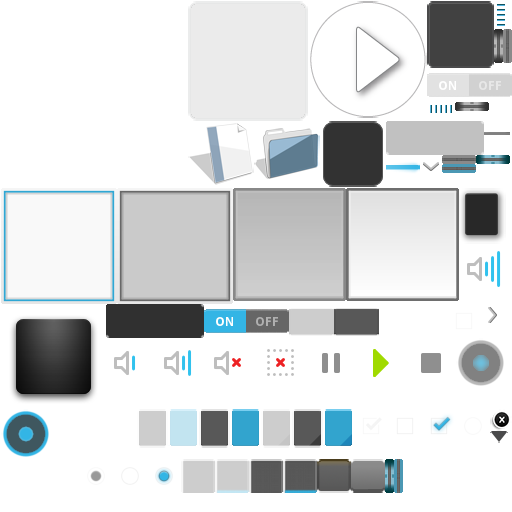
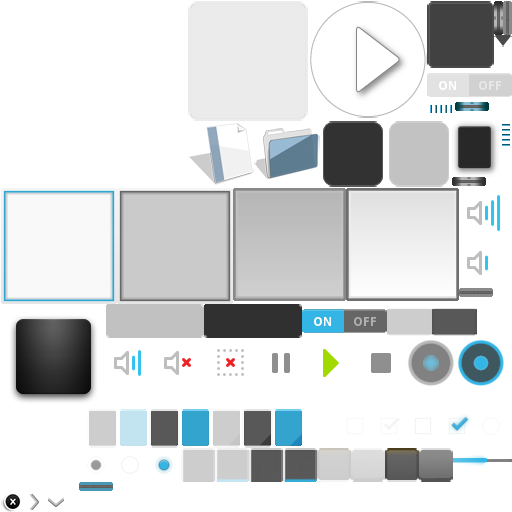
uix:Widgets make sure all compound widgets work with disabled

diff --git a/kivy/uix/vkeyboard.py b/kivy/uix/vkeyboard.py
@@ -226,6 +226,16 @@ class VKeyboard(Scatter):
     :file:`atlas://data/images/defaulttheme/vkeyboard_background`.
     '''
 
+    background_disabled = StringProperty(
+        'atlas://data/images/defaulttheme/vkeyboard_disabled_background')
+    '''Filename of the background image when disbaled.
+
+    .. versionadded:: 1.8.0
+
+    :data:`background_disabled` a :class:`~kivy.properties.StringProperty`, default to
+    :file:`atlas://data/images/defaulttheme/vkeyboard__disabled_background`.
+    '''
+
     key_background_color = ListProperty([1, 1, 1, 1])
     '''Key background color, in the format (r, g, b, a). If a key background is
     set, the color will be combined with the key background texture.
@@ -241,6 +251,17 @@ class VKeyboard(Scatter):
 
     :data:`key_background_normal` a :class:`~kivy.properties.StringProperty`,
     default to :file:`atlas://data/images/defaulttheme/vkeyboard_key_normal`.
+    '''
+
+    key_disabled_background_normal = StringProperty(
+            'atlas://data/images/defaulttheme/vkeyboard_key_normal')
+    '''Filename of the key background image for use when no touches are active
+    on the widget and disbaled.
+
+    ..versionadded:: 1.8.0
+
+    :data:`key_disabled_background_normal` a :class:`~kivy.properties.StringProperty`,
+    default to :file:`atlas://data/images/defaulttheme/vkeyboard_disaled_key_normal`.
     '''
 
     key_background_down = StringProperty(
@@ -327,6 +348,9 @@ class VKeyboard(Scatter):
 
         # prepare layout widget
         self.refresh_keys_hint()
+        self.refresh_keys()
+
+    def on_disabled(self, intance, value):
         self.refresh_keys()
 
     def _update_layout_mode(self, *l):
@@ -559,7 +583,9 @@ class VKeyboard(Scatter):
         # draw background
         w, h = self.size
 
-        background = resource_find(self.background)
+        background = resource_find(self.background_disabled
+                                   if self.disabled else
+                                   self.background)
         texture = Image(background, mipmap=True).texture
         self.background_key_layer.clear()
         with self.background_key_layer:
@@ -571,7 +597,9 @@ class VKeyboard(Scatter):
         # XXX reloading the texture each time
 
         # first draw keys without the font
-        key_normal = resource_find(self.key_background_normal)
+        key_normal = resource_find(self.key_background_disabled_normal
+                                   if self.disabled else
+                                   self.key_background_normal)
         texture = Image(key_normal, mipmap=True).texture
         with self.background_key_layer:
             for line_nb in xrange(1, layout_rows + 1):
@@ -719,6 +747,8 @@ class VKeyboard(Scatter):
         x, y = touch.pos
         if not self.collide_point(x, y):
             return
+        if self.disabled:
+            return True
 
         x, y = self.to_local(x, y)
         if not self.collide_margin(x, y):

diff --git a/kivy/uix/tabbedpanel.py b/kivy/uix/tabbedpanel.py
@@ -359,8 +359,7 @@ class TabbedPanel(GridLayout):
     content = ObjectProperty(None)
     '''This is the object holding(current_tab's content is added to this)
     the content of the current tab. To Listen to the changes in the content
-    of the current tab you should bind to `current_tab` and then access it's
-    `content` property.
+    of the current tab you should bind to current_tabs `content` property.
 
     :data:`content` is a :class:`~kivy.properties.ObjectProperty`,
     default to 'None'.
@@ -410,7 +409,7 @@ class TabbedPanel(GridLayout):
     '''
 
     def __init__(self, **kwargs):
-        # these variables need to be initialised before the kv lang is
+        # these variables need to be initialized before the kv lang is
         # processed setup the base layout for the tabbed panel
         self._tab_layout = GridLayout(rows=1)
         self.rows = 1
@@ -474,6 +473,7 @@ class TabbedPanel(GridLayout):
             self.on_tab_width()
         else:
             widget.pos_hint = {'x': 0, 'top': 1}
+            content.disabled = self.current_tab.disabled
             content.add_widget(widget, index)
 
     def remove_widget(self, widget):
@@ -506,10 +506,6 @@ class TabbedPanel(GridLayout):
         else:
             content.clear_widgets()
 
-    def on_touch_down(self, touch):
-        if self.collide_point(*touch.pos) and self.disabled:
-            return True
-        return super(TabbedPanel, self).on_touch_down(touch)
 
     def on_do_default_tab(self, instance, value):
         if not value:

diff --git a/kivy/uix/widget.py b/kivy/uix/widget.py
@@ -217,6 +217,8 @@ class Widget(EventDispatcher):
         :Returns:
             bool. If True, the dispatching of the touch will stop.
         '''
+        if self.disabled and self.collide_point(*touch.pos):
+            return True
         for child in self.children[:]:
             if child.dispatch('on_touch_down', touch):
                 return True
@@ -226,6 +228,8 @@ class Widget(EventDispatcher):
 
         See :meth:`on_touch_down` for more information
         '''
+        if self.disabled:
+            return
         for child in self.children[:]:
             if child.dispatch('on_touch_move', touch):
                 return True
@@ -235,6 +239,8 @@ class Widget(EventDispatcher):
 
         See :meth:`on_touch_down` for more information
         '''
+        if self.disabled:
+            return
         for child in self.children[:]:
             if child.dispatch('on_touch_up', touch):
                 return True

diff --git a/kivy/uix/button.py b/kivy/uix/button.py
@@ -50,15 +50,6 @@ class Button(Label):
             pressed the button goes away).
     '''
 
-    disabled_color = ListProperty([1, 1, 1, .3])
-    '''Text color, in the format (r, g, b, a)
-
-    .. versionadded:: 1.7.0
-
-    :data:`disabled_color` is a :class:`~kivy.properties.ListProperty`, default to [1, 1,
-    1, .5].
-    '''
-
     state = OptionProperty('normal', options=('normal', 'down'))
     '''State of the button, must be one of 'normal' or 'down'.
     The state is 'down' only when the button is currently touched/clicked,
@@ -147,8 +138,6 @@ class Button(Label):
             return False
         if not self.collide_point(touch.x, touch.y):
             return False
-        if self.disabled:
-            return True
         if self in touch.ud:
             return False
         touch.grab(self)

diff --git a/kivy/uix/popup.py b/kivy/uix/popup.py
@@ -165,6 +165,11 @@ class Popup(ModalView):
         self._container.clear_widgets()
         self._container.add_widget(self.content)
 
+    def on_touch_down(self, touch):
+        if self.disabled and self.collide_point(*touch.pos):
+            return True
+        return super(Popup, self).on_touch_down(touch)
+
 
 if __name__ == '__main__':
     from kivy.base import runTouchApp
@@ -180,7 +185,7 @@ if __name__ == '__main__':
     content.add_widget(content_cancel)
     popup = Popup(title='Test popup',
                   size_hint=(None, None), size=(256, 256),
-                  content=content)
+                  content=content, disabled=True)
     content_cancel.bind(on_release=popup.dismiss)
 
     layout = GridLayout(cols=3)

diff --git a/kivy/uix/accordion.py b/kivy/uix/accordion.py
@@ -292,6 +292,8 @@ class AccordionItem(FloatLayout):
     def on_touch_down(self, touch):
         if not self.collide_point(*touch.pos):
             return
+        if self.disabled:
+            return True
         if self.collapse:
             self.collapse = False
             return True
@@ -359,10 +361,6 @@ class Accordion(Widget):
             pos=self._trigger_layout,
             min_space=self._trigger_layout)
 
-    def on_touch_down(self, touch):
-        if self.collide_point(*touch.pos) and self.disabled:
-            return True
-        return super(Accordion, self).on_touch_down(touch)
 
     def add_widget(self, widget, *largs):
         if not isinstance(widget, AccordionItem):

diff --git a/kivy/uix/filechooser.py b/kivy/uix/filechooser.py
@@ -301,9 +301,19 @@ class FileChooserController(FloatLayout):
                   rootpath=self._trigger_update)
         self._trigger_update()
 
+    def on_touch_down(self, touch):
+        # don't respond to touchs outside self
+        if not self.collide_point(*touch.pos):
+            return
+        if self.disabled:
+            return True
+        return super(FileChooserController, self).on_touch_down(touch)
+
     def on_touch_up(self, touch):
         # don't respond to touchs outside self
         if not self.collide_point(*touch.pos):
+            return True
+        if self.disabled:
             return True
         return super(FileChooserController, self).on_touch_up(touch)
 

diff --git a/kivy/uix/label.py b/kivy/uix/label.py
@@ -226,6 +226,16 @@ class Label(Widget):
     #
     # Properties
     #
+
+    disabled_color = ListProperty([1, 1, 1, .3])
+    '''Text color, in the format (r, g, b, a)
+
+    .. versionadded:: 1.7.0
+
+    :data:`disabled_color` is a :class:`~kivy.properties.ListProperty`, default to [1, 1,
+    1, .5].
+    '''
+
     text = StringProperty('')
     '''Text of the label.
 

diff --git a/kivy/uix/screenmanager.py b/kivy/uix/screenmanager.py
@@ -406,7 +406,7 @@ class ShaderTransition(TransitionBase):
         self.fbo_out = self.make_screen_fbo(self.screen_out)
         self.manager.canvas.add(self.fbo_in)
         self.manager.canvas.add(self.fbo_out)
-        
+
         screen_rotation = Config.getfloat('graphics', 'rotation')
         pos = (0, 1)
         if screen_rotation == 90:

diff --git a/kivy/uix/textinput.py b/kivy/uix/textinput.py
@@ -323,6 +323,10 @@ class TextInput(Widget):
         # when the gl context is reloaded, trigger the text rendering again.
         _textinput_list.append(ref(self, TextInput._reload_remove_observer))
 
+    def on_disabled(self, instance, value):
+        if value:
+            self.focus = False
+
     def on_text_validate(self):
         pass
 

diff --git a/kivy/uix/scrollview.py b/kivy/uix/scrollview.py
@@ -417,6 +417,8 @@ class ScrollView(StencilView):
         if not self.collide_point(*touch.pos):
             touch.ud[self._get_uid('svavoid')] = True
             return
+        if self.disabled:
+            return True
         if self._touch:
             return super(ScrollView, self).on_touch_down(touch)
 

diff --git a/kivy/uix/treeview.py b/kivy/uix/treeview.py
@@ -471,6 +471,8 @@ class TreeView(Widget):
         node = self.get_node_at_pos(touch.pos)
         if not node:
             return
+        if node.disabled:
+            return
         # toggle node or selection ?
         if node.x - self.indent_start <= touch.x < node.x:
             self.toggle_node(node)
